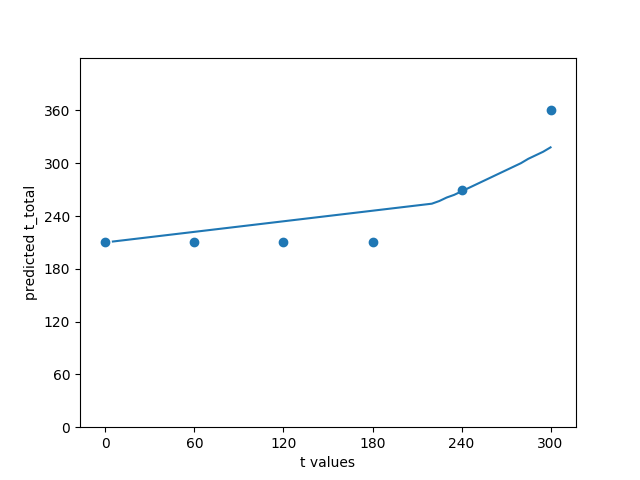
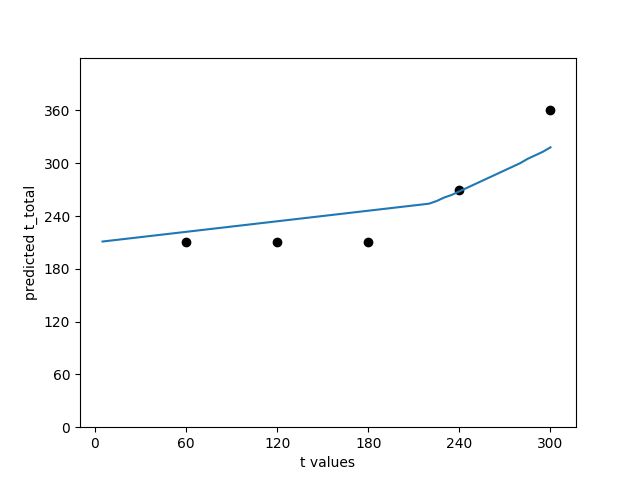
change style

diff --git a/prediction.py b/prediction.py
@@ -55,22 +55,20 @@ class Prediction:
   def _questionnaire(self):
     """アンケート結果を集計してまとめているだけ"""
 
-    q0_list = [240, 210, 210, 165, 220, 253, 200, 210, 210, 150, 210, 230, 140, 180, 210, 280, 150, 270, 200, 150, 240, 210, 120, 120, 140, 290, 160, 150, 210]
     q1_list = [220, 198, 120, 180, 130, 120, 150]
     q2_list = [30, 90, 90, 180]
     q3_list = [140, 80, 30, 60, 30, 20, 30]
     q4_list = [30, 30, 30, 20]
     q5_list = [30, 120, 120, 60, 15]
 
-    q0_mean = np.median(q0_list)
     q1_mean = np.median(q1_list) + 60*1
     q2_mean = np.median(q2_list) + 60*2
     q3_mean = np.median(q3_list) + 60*3
     q4_mean = np.median(q4_list) + 60*4
     q5_mean = np.median(q5_list) + 60*5
 
-    X = [0, 60, 120, 180, 240, 300]
-    Y = [q0_mean, q1_mean, q2_mean, q3_mean, q4_mean, q5_mean]
+    X = [60, 120, 180, 240, 300]
+    Y = [q1_mean, q2_mean, q3_mean, q4_mean, q5_mean]
     return X, Y
 
   def plot(self, file_name='prediction.png'):
@@ -88,7 +86,7 @@ class Prediction:
     plt.plot(T, T_stars)
 
     q_x, q_y = self._questionnaire()
-    ax.scatter(q_x, q_y)
+    ax.scatter(q_x, q_y, c='black')
     ax.set_xlabel('t values')
     ax.set_ylabel('predicted t_total')
     ax.set_xticks(np.arange(0, 300 + 1, 60))
